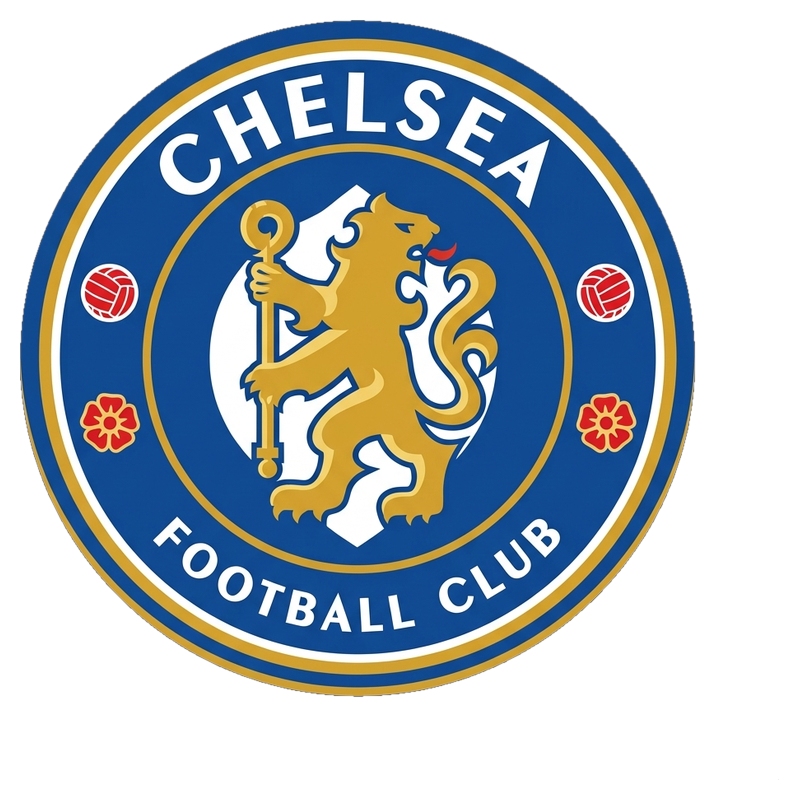
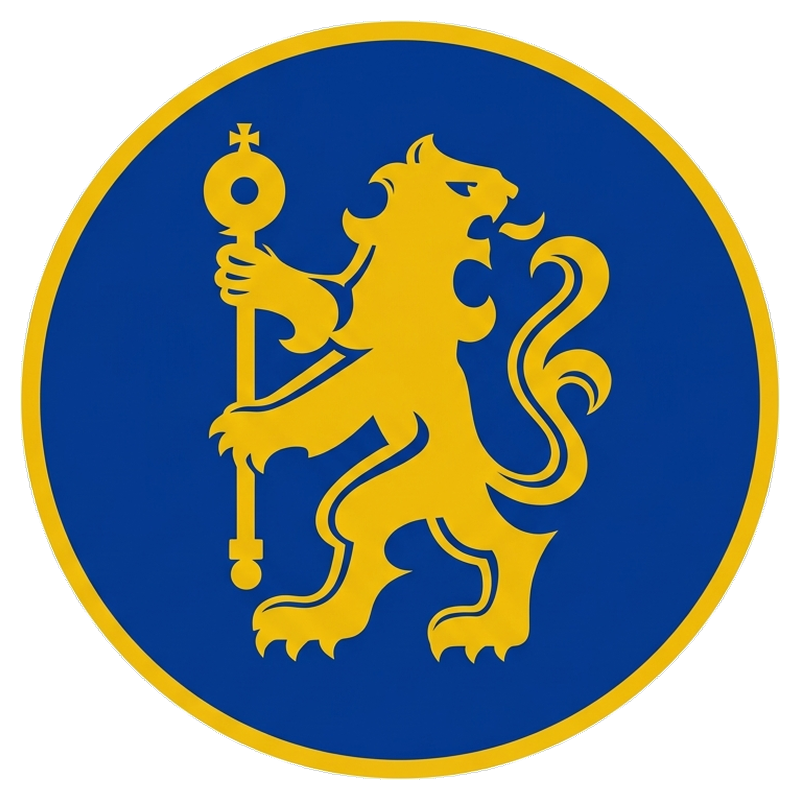
feat(v1.0.22): fix favorite team stats tracking, overhaul club crests with original retro heraldry, center Chelsea badge, and add Android emulator runner

diff --git a/process_and_center_crests.py b/process_and_center_crests.py
@@ -1,0 +1,124 @@
+import os
+import numpy as np
+from PIL import Image
+from collections import deque
+from scipy.ndimage import binary_dilation
+import shutil
+
+BRAIN_DIR = r"C:\Users\egebatir\.gemini\antigravity\brain\e599f675-da6c-4b3f-b6ef-e8a93f0767ba"
+FUTBOL_DIR = r"c:\Users\egebatir\Documents\futbol"
+AUTOMATION_CRESTS = r"c:\Users\egebatir\Documents\futbol_automation\assets\crests"
+WEB_CRESTS = r"c:\Users\egebatir\Documents\antigravity\charming-pasteur"
+
+MAPPING = {
+    "che1.png": "chelsea_crest_1790111023236.jpg",
+    "juv1.png": "juventus_crest_1790111036418.jpg",
+    "int1.png": "inter_crest_1790111047898.jpg",
+    "mil1.png": "milan_crest_1790111057962.jpg",
+    "nap1.png": "napoli_crest_1790111069657.jpg",
+    "tor1.png": "torino_crest_1790111082447.jpg",
+    "liv1.png": "liverpool_crest_1790111095989.jpg",
+    "mun1.png": "man_utd_crest_1790111109666.jpg",
+    "mc1.png":  "man_city_crest_1790111124810.jpg",
+    "rma1.png": "real_madrid_crest_1790111138542.jpg",
+    "bar1.png": "barcelona_crest_1790111151877.jpg",
+    "atm1.png": "atletico_crest_1790111165180.jpg",
+}
+
+def remove_bg_and_center(jpg_file, target_png_name):
+    jpg_path = os.path.join(BRAIN_DIR, jpg_file)
+    if not os.path.exists(jpg_path):
+        print(f"ERROR: {jpg_path} not found!")
+        return False
+        
+    im = Image.open(jpg_path).convert("RGB")
+    arr = np.array(im, dtype=np.float32)
+    h, w, _ = arr.shape
+    
+    # 1. Sample background color from four corners
+    corners = np.vstack([
+        arr[:15, :15].reshape(-1, 3),
+        arr[:15, -15:].reshape(-1, 3),
+        arr[-15:, :15].reshape(-1, 3),
+        arr[-15:, -15:].reshape(-1, 3),
+    ])
+    bg_color = corners.mean(axis=0)
+    
+    dist = np.linalg.norm(arr - bg_color, axis=2)
+    is_bg = dist < 28.0
+    
+    # Flood-fill only from exterior boundaries
+    exterior_mask = np.zeros((h, w), dtype=bool)
+    q = deque()
+    
+    for y in range(h):
+        for x in [0, w-1]:
+            if is_bg[y, x] and not exterior_mask[y, x]:
+                exterior_mask[y, x] = True
+                q.append((y, x))
+    for x in range(w):
+        for y in [0, h-1]:
+            if is_bg[y, x] and not exterior_mask[y, x]:
+                exterior_mask[y, x] = True
+                q.append((y, x))
+                
+    while q:
+        cy, cx = q.popleft()
+        for dy, dx in [(-1, 0), (1, 0), (0, -1), (0, 1)]:
+            ny, nx = cy + dy, cx + dx
+            if 0 <= ny < h and 0 <= nx < w:
+                if is_bg[ny, nx] and not exterior_mask[ny, nx]:
+                    exterior_mask[ny, nx] = True
+                    q.append((ny, nx))
+                    
+    # Smooth antialiased boundary transition
+    dilated = binary_dilation(exterior_mask, iterations=2)
+    alpha = np.ones((h, w), dtype=np.uint8) * 255
+    for y in range(h):
+        for x in range(w):
+            if exterior_mask[y, x]:
+                alpha[y, x] = 0
+            elif dilated[y, x] and is_bg[y, x]:
+                alpha[y, x] = int(np.clip(dist[y, x] / 28.0, 0, 1) * 255)
+                
+    rgba = Image.fromarray(np.dstack([arr.astype(np.uint8), alpha]), mode="RGBA")
+    bbox = rgba.getbbox()
+    if not bbox:
+        print(f"ERROR: {target_png_name} bbox is empty!")
+        return False
+        
+    cropped = rgba.crop(bbox)
+    
+    # Scale to 760x760 maximum dimension
+    target_inner = 760
+    scale = target_inner / max(cropped.width, cropped.height)
+    new_w = int(round(cropped.width * scale))
+    new_h = int(round(cropped.height * scale))
+    resized = cropped.resize((new_w, new_h), Image.Resampling.LANCZOS)
+    
+    # Center perfectly on 800x800
+    final_canvas = Image.new("RGBA", (800, 800), (0, 0, 0, 0))
+    paste_x = (800 - new_w) // 2
+    paste_y = (800 - new_h) // 2
+    final_canvas.paste(resized, (paste_x, paste_y), resized)
+    
+    # Save to futbol
+    out_path = os.path.join(FUTBOL_DIR, target_png_name)
+    final_canvas.save(out_path, "PNG")
+    
+    # Mirror to automation
+    if os.path.exists(AUTOMATION_CRESTS):
+        auto_path = os.path.join(AUTOMATION_CRESTS, target_png_name)
+        final_canvas.save(auto_path, "PNG")
+        
+    final_bbox = final_canvas.getbbox()
+    cx = (final_bbox[0] + final_bbox[2]) / 2.0
+    cy = (final_bbox[1] + final_bbox[3]) / 2.0
+    print(f"SUCCESS: {target_png_name:10s} -> size=(800, 800) bbox={final_bbox} center=({cx}, {cy})")
+    return True
+
+if __name__ == "__main__":
+    print("--- Processing and Perfectly Centering Club Crests ---")
+    for png_name, jpg_file in MAPPING.items():
+        remove_bg_and_center(jpg_file, png_name)
+    print("Done!")
